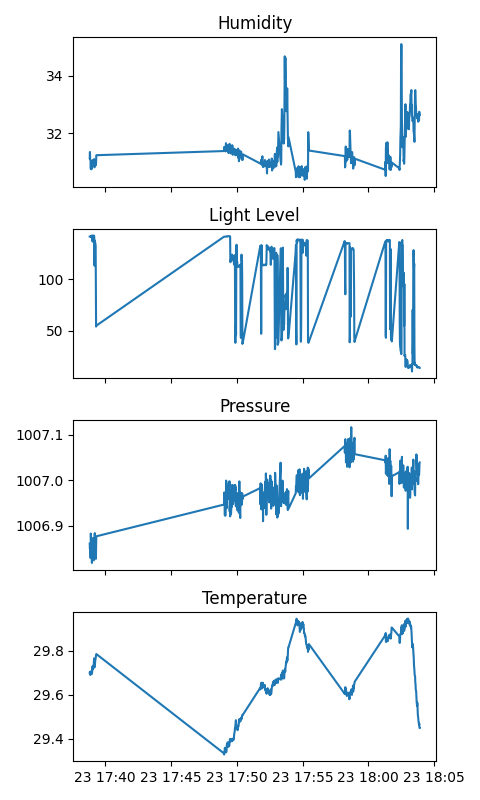
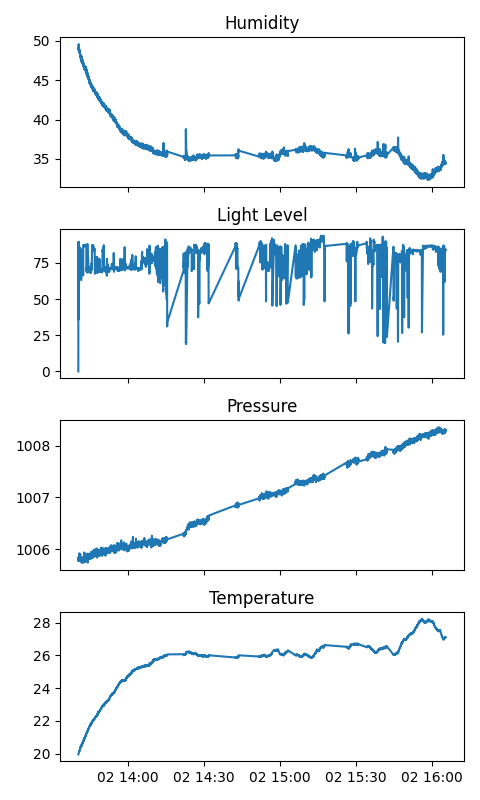
progress

diff --git a/ble_server.py b/ble_server.py
@@ -345,7 +345,7 @@ class Agent(dbus.service.Object):
 # -------------------------
 def handle_command(cmd: str, pi) -> str:
     """
-    Parse and execute simple text commands from the phone.
+    Parse and pass on commands to the pi
     """
     cmd = (cmd or "").strip()
     if not cmd:
@@ -354,27 +354,9 @@ def handle_command(cmd: str, pi) -> str:
     parts = cmd.split()
     op = parts[0].lower()
 
-    if op in ("graph", "g"):
-        pi.display_graph()
-        return "OK graph"
+    pi._cmd_q.put(cmd)
 
-    if op in ("photo", "p"):
-        if len(parts) < 2:
-            return "ERR usage: photo <filename>"
-        fn = parts[1]
-        if fn not in pi.list_uploaded_photos():
-            return "ERR no such file"
-        pi.display_image(fn)
-        return f"OK photo {fn}"
-
-    if op in ("list", "ls"):
-        return "OK " + " ".join(pi.list_uploaded_photos())
-
-    if op in ("sensors", "s"):
-        v = pi.get_sensor_values()
-        return f"OK t={v['temperature']} h={v['humidity']} p={v['pressure']} l={v['light']}"
-
-    return "ERR unknown"
+    return f"{cmd} queued"
 
 
 # -----------------------------
@@ -405,6 +387,14 @@ class CmdCharacteristic(Characteristic):
         print(f"[BLE] CMD: {cmd!r} -> {resp!r}")
 
 
+        if getattr(self.resp_char, "notifying", False):
+            self.resp_char.PropertiesChanged(
+                GATT_CHRC_IFACE,
+                {"Value": self.resp_char.value},
+                []
+            )
+
+
 class RespCharacteristic(Characteristic):
     """
     RESP characteristic:
@@ -412,9 +402,17 @@ class RespCharacteristic(Characteristic):
     - Its value is updated by the CMD characteristic after a command executes
     """
     def __init__(self, bus, index, service):
-        super().__init__(bus, index, RESP_UUID, ["read", "encrypt-read"], service)
+        super().__init__(bus, index, RESP_UUID, ["read", "encrypt-read", "notify"], service)
         self.value = dbus.Array(b"OK ready", signature="y")
+        self.notifying = False
+    
+    def StartNotify(self):
+        print("[BLE] Notifications enabled")
+        self.notifying = True
 
+    def StopNotify(self):
+        print("[BLE] Notifications disabled")
+        self.notifying = False
 
 # --------------------------
 # Main server entry point
@@ -561,6 +559,17 @@ def run(pi_controller, name="SPT-Pi"):
     
     def ble_stop_now():
         print("[BLE] Stop requested")
+        # Unsubscribe everyone
+        try:
+            resp.StopNotify()
+        except Exception:
+            pass
+
+        # Disconnect everyone
+        try:
+            disconnect_all_devices()
+        except Exception:
+            pass
 
         # Stop advertising (safe even if already stopped)
         try:
@@ -605,13 +614,29 @@ def run(pi_controller, name="SPT-Pi"):
         is_connected = bool(changed["Connected"])
 
         if is_connected:
-            # First connection wins
+            # After device connects
             if connected_device_path["path"] is None:
                 connected_device_path["path"] = path
                 print("[BLE] Device connected:", path)
-
-                # Stop advertising to reduce further connection attempts
                 stop_advertising()
+
+                # Enable notify if not already
+                if not resp.notifying:
+                    resp.StartNotify()
+
+                # Update the characteristic value
+                config_str = pi_controller.get_config()
+                resp.value = dbus.Array(config_str.encode("utf-8"), signature="y")
+
+                # Trigger a notification so the app gets it
+                resp.PropertiesChanged(
+                    GATT_CHRC_IFACE,
+                    {"Value": resp.value},
+                    []
+                )
+
+                print("[BLE] Sent initial config to app:", config_str)
+
             else:
                 # Already have a connected device; reject any additional one
                 if path != connected_device_path["path"]:

diff --git a/pi_controller.py b/pi_controller.py
@@ -33,6 +33,7 @@ B2_LED = 6
 
 BLINK_DT = 0.25
 HOLD_TIME = 2
+
 GRAPH_UPDATE_INTERVAL = 15 * 60
 INTERVAL = 1
 
@@ -56,7 +57,7 @@ class PiController:
 
         GPIO.add_event_detect(B1_PIN, GPIO.BOTH, callback=self._on_b1_edge, bouncetime=80)
         GPIO.add_event_detect(B2_PIN, GPIO.BOTH, callback=self._on_b2_edge, bouncetime=80)
-        
+
         self._b1_pressed_at = None
         self._b1_lock = threading.Lock()
         self._b2_pressed_at = None
@@ -70,7 +71,7 @@ class PiController:
         try:
             self.epd = waveshare.EPD()
             self.epd.init()
-            self.display_lock = threading.Lock()        
+            self.display_lock = threading.Lock()       
         except IOError as e:
             logging.info(e)
         except KeyboardInterrupt:    
@@ -176,43 +177,67 @@ class PiController:
 
     def _cmd_worker(self) -> None:
         while not self._stop_evt.is_set():
+            # Do not do any commands while busy
+            if self.get_state() == State.BUSY:
+                continue
+            
             try:
-                cmd, payload = self._cmd_q.get(timeout=0.5)
+                command = self._cmd_q.get(timeout=0.5)
             except queue.Empty:
                 continue
 
-            if cmd == "stop":
+            # Button commands
+            if isinstance(command, tuple):
+                op, payload = command
+            
+            # App commands
+            elif isinstance(command, str):
+                command_parts = command.split(":")
+                op = command_parts[0]
+                payload = command_parts[1]
+
+            if op == "stop":
                 return
 
             try:
-                if cmd == "press1":
+                # App commands
+                if op == "mode":
+                    if payload == "graph":
+                        self.display_graph()
+                    else:
+                        self.display_image(self.persistent.get("last_image", "lake.jpg"))
+            
+
+
+                # Button Commands
+                elif op == "press1":
                     # Toggle display mode safely here (heavy work allowed)
                     if self.persistent.get("display_mode") == "graph":
                         self.display_image(self.persistent.get("last_image", "lake.jpg"))
                     else:
                         self.display_graph()
 
-                elif cmd == "hold1":
+                elif op == "hold1":
                     self.shutdown_requested.set()
 
-                elif cmd == "press2":
+                elif op == "press2":
                     # TODO: something
                     pass
                 
-                elif cmd == "hold2":
+                elif op == "hold2":
                     # REDO bluetooth
                     if hasattr(self, "ble_reset") and callable(self.ble_reset):
                         self.ble_reset()
                     else:
                         print("[PiController] No ble_reset hook wired up")
 
-                elif cmd == "set_state":
+                elif op == "set_state":
                     self.set_state(payload)  # payload is a State
 
-                elif cmd == "display_image":
+                elif op == "display_image":
                     self.display_image(str(payload))
 
-                elif cmd == "display_graph":
+                elif op == "display_graph":
                     self.display_graph()
 
             except Exception as e:
@@ -385,6 +410,9 @@ class PiController:
     def get_state(self) -> State:
         with self._state_cv:
             return self._state
+    
+    def get_config(self) -> None:
+        return str(self.persistent)
 
 
 
